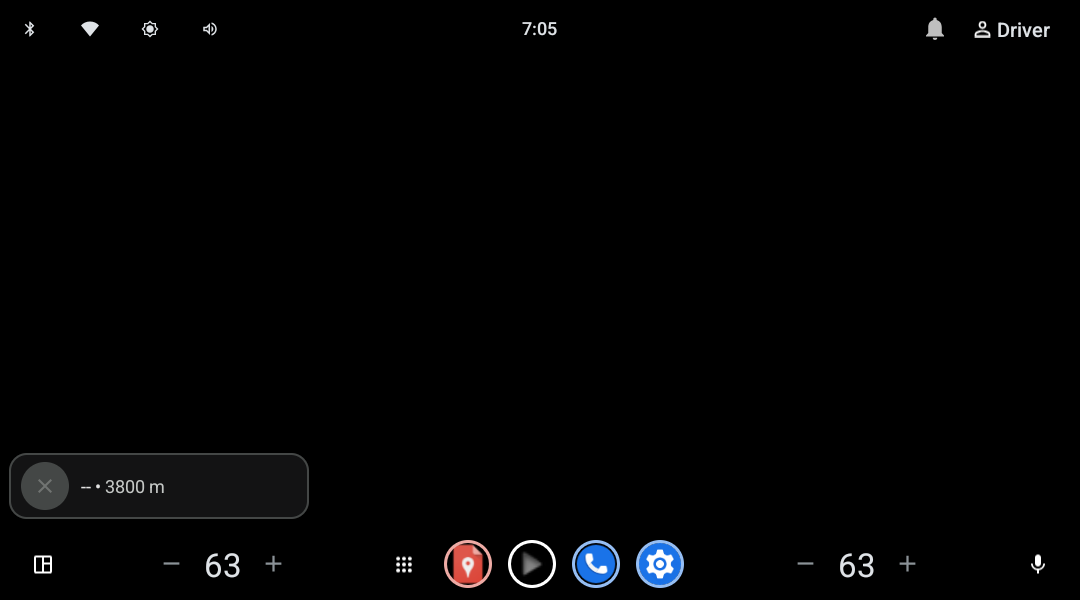
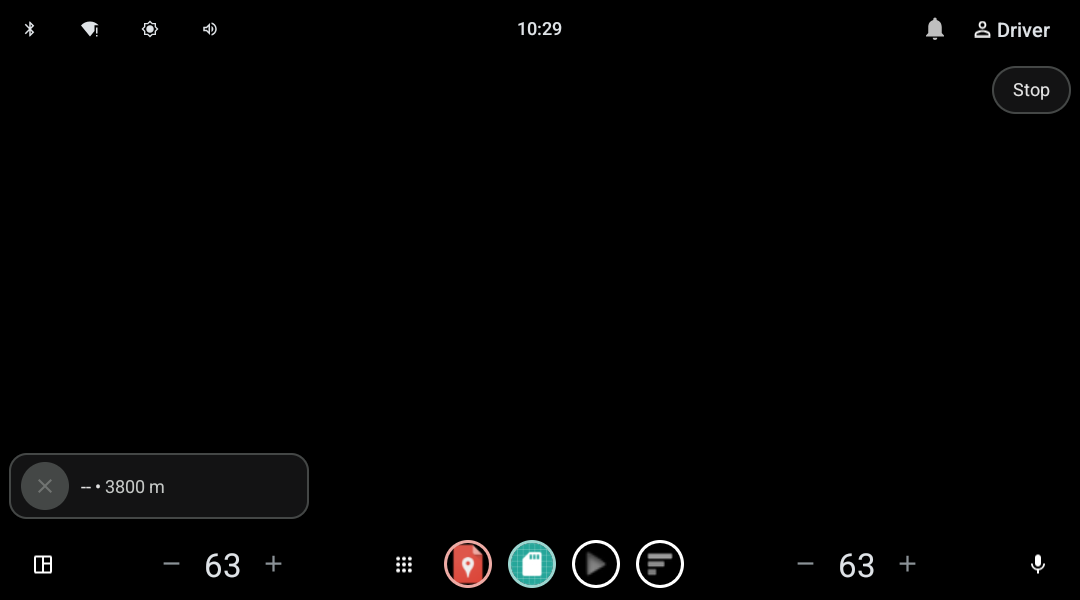
Sprint 2 C3/C4 emulator verification: report + evidence (#60) (#60)
IoT/weather/media walks with real taps on a fresh AAOS_35 boot; C2 re-walk
proves Go delivers (retires the blanket tap-death gap, narrows it to
guidance Stop); P5 lane error-path proof; 5 new captures, tap-driven
guidance replacement (22 total).

Changed region(s): [[0.4583, 0.9, 0.6417, 0.99], [0.9167, 0.09, 1.0, 0.21], [0.4583, 0.03, 0.5194, 0.06]]

diff --git a/scripts/check-screenshot-evidence.py b/scripts/check-screenshot-evidence.py
@@ -47,6 +47,11 @@ EXPECTED = {
     "host-b-poi-baseline.png",
     "host-a-nav-preview.png",
     "host-a-nav-guidance.png",
+    "host-a-iot-list.png",
+    "host-a-iot-toggled.png",
+    "host-a-weather-list.png",
+    "host-a-media-sources.png",
+    "host-a-media-browse.png",
 }
 REQUIRED_METADATA = {
     "commit", "host", "package", "display", "state", "command", "sha256", "captured_at"

diff --git a/docs/SPRINT-2-C3C4-VERIFICATION.md b/docs/SPRINT-2-C3C4-VERIFICATION.md
@@ -1,0 +1,97 @@
+# Sprint 2 C3/C4 emulator verification (2026-11-12)
+
+IoT + weather template walks and the media-controller walk on the local AAOS emulator,
+plus a C2 re-walk with real taps. Entry criteria: Host A installable with IoT/weather
+coverage (C3), and media passing a real controller (C4).
+
+## Environment
+
+| | |
+|---|---|
+| AVD | `AAOS_35` (`automotive_1080p_landscape`), wipe-data cold boot |
+| Image | `system-images;android-35-ext15;android-automotive;arm64-v8a` r4 (same as Sprint 1) |
+| Build | Debug at `3568df5` (main with #59); no temporary instrumentation this time |
+| Session tweaks | DisplayCompat interrupter disabled (`pm disable-user`), as in Sprint 1/C2 |
+
+Deviations from the earlier runs, stated plainly:
+
+- The `booted` snapshot would not load (`virtio-snd` state error) and a cold boot on
+  the stale userdata hung without guest writes, so the run used `-wipe-data -no-audio`
+  with `-no-snapshot-save`. No snapshots were written (disk was at 6–12 GiB free).
+- `-no-audio` means ExoPlayer cannot render audio: playback attempts end in
+  `PlaybackState ERROR (Bluetooth audio disconnected)`. Transport *routing* is proven;
+  audible playback is not.
+
+## Walks
+
+Each template root launches via its boolean extra on `CarAppActivity`, with
+`am force-stop` between launches (the single-task activity otherwise absorbs a new
+extra into the live session). All captures use `screencap -d 4619827259835644672`
+to a file, then pulled — no adb text pollution.
+
+### C3: IoT + weather
+
+- IoT root renders the device list (`SESSION_START {root=iot}`, `ListTemplate`):
+  living-room light, porch light, hall thermostat with state toggles.
+- **Two real taps flipped two toggles** (living-room On→Off, porch Off→On), each
+  re-rendering `ListTemplate`. Full interaction, not just pixels.
+- Weather root renders the Midtown forecast (`SESSION_START {root=weather}`,
+  `ListTemplate`): current + hourly + daily rows.
+
+### C4: media controller
+
+- The library session publishes as `a2ui-media` (`active=true`); media keys route
+  to the player (`NONE` → play attempt).
+- The car's source picker initially did **not** list us. Two manifest-level root
+  causes, both fixed in #59 and re-verified here:
+  1. The picker enumerates `android.media.browse.MediaBrowserService` services; we
+     declared only the media3 action.
+  2. `MediaSource.isMediaTemplate` skips browse services from car-app packages
+     without an opt-in (`Skipping MBS ... belonging to non media template app`);
+     the service's meta-data must contain `androidx.car.app.launchable=true`.
+     A car-app `MEDIA` category was tested and is *not* the criterion.
+- After the fix: the picker lists **A2UI Showcase**, selecting it browses our
+  **Anchored FM** catalog (Downtown Loop / Park Ave Shuffle / Carmine St Blues),
+  and tapping a track routes play to our ExoPlayer (errors only on the missing
+  audio output — the `-no-audio` artifact above).
+- Audit rules pin both manifest entries (`check-aaos-manifest.py`, 21→25 tests).
+
+### C2 re-walk (taps)
+
+- Nav preview renders one route row (Joe's Pizza, 3800 m · 13 min) with Go.
+- **A real Go tap transitioned preview → guidance** (`NavigationTemplate`, Stop +
+  estimate). The C2 report's "tap delivery is dead" gap was stale-snapshot state:
+  on this fresh boot, template-body taps (Go, IoT toggles) all deliver.
+- The guidance Stop action still does not fire (tap, long-press, host logs silent).
+  Guidance-Activity teardown stays JVM-covered only.
+
+### P5 lane (bonus, error path)
+
+With no vendor keys and no staging backend on the worker, only the failure path
+was exercisable: dev gateway (`serve.py --offline`) over `adb reverse`, Host B
+asked via the `AGENT` broadcast. The turn reached the gateway over TLS (logged
+`provider=claude ... status=503`) and the host logged
+`agent turn failed: HTTP; keeping the current surface` — the P5 code executes
+on-device and fails closed. A successful turn still needs staging or keys.
+
+## Evidence
+
+| Capture | Shows |
+|---|---|
+| `host-a-iot-list.png` | C3 device list with toggles |
+| `host-a-iot-toggled.png` | Same list after two real taps flipped two toggles |
+| `host-a-weather-list.png` | C3 Midtown forecast rows |
+| `host-a-media-sources.png` | C4 picker listing A2UI Showcase |
+| `host-a-media-browse.png` | C4 Anchored FM catalog in the car media center |
+| `host-a-nav-guidance.png` | Replaced: guidance after a real Go tap (was temp-direct build) |
+
+## Gaps
+
+- Guidance Stop taps do not reach the app (3 attempts, host silent). Body-action
+  taps work; this is specific to the guidance ActionStrip/header region.
+- Audible playback unverified (`-no-audio` boot). Needs a boot with audio.
+- No tile renderer yet (unchanged): the guidance map surface is owned, delivered,
+  and drawn black.
+- P5 success path needs staging or vendor keys; only the failure path ran here.
+- The `booted` snapshot is unloadable; the next run pays a cold boot again unless
+  somebody re-saves it with free disk.

diff --git a/docs/STATUS.md b/docs/STATUS.md
@@ -103,9 +103,12 @@ Open at HEAD, one line each. Investigations and evidence live in git history and
 - `record-demo.sh` infers "the screen changed" from file size when `ffmpeg` is absent.
 - Sprint 1's map pane has telemetry proof (`POI_STEP map`) but no committed capture; emulator
   captures must pass `screencap -d` with an explicit display id from now on.
-- Host tap delivery is dead on the headless emulator (C2: ~25 taps + DPAD, nothing delivered);
-  template actions (Go/Stop/advance) are JVM-covered only. Same gap class as Sprint 1's
-  MapWithContent host-input proof.
+- Guidance Stop taps do not reach the app on the emulator (C3/C4 re-walk: Go and IoT
+  toggles deliver on a fresh boot, so the old blanket tap-death line is retired);
+  guidance teardown stays JVM-covered only.
+- The `booted` AAOS snapshot is unloadable (virtio-snd state) and no replacement was
+  saved (disk); the next emulator run pays a cold boot. Audible playback is unverified
+  (last boot was `-no-audio`).
 - No mutation coverage for `oem-apis`, `car-rotary-lib`, `car-assist-lib`, `car-telephony-common`
   (reasons and removal conditions in `docs/mutation-exemptions.tsv`).
 

diff --git a/docs/SPRINT-2-C2-VERIFICATION.md b/docs/SPRINT-2-C2-VERIFICATION.md
@@ -42,8 +42,8 @@ temporary direct-launch extra; the rendered template path is identical.
 
 ## Gaps
 
-- Host tap delivery does not work headless here: ~25 taps across the preview (both default and
-  explicit `-d 0` targets), DPAD/rotary keys, and system-bar probes produced no app-visible
-  effect, and the templates host logs nothing on taps. Go/Stop/advance stay JVM-covered only —
-  the same known host-input gap Sprint 1 recorded for MapWithContent.
+- Update (2026-11-12 re-walk, see [SPRINT-2-C3C4-VERIFICATION](SPRINT-2-C3C4-VERIFICATION.md)):
+  the tap death was stale-snapshot state. On a fresh boot a real Go tap transitioned
+  preview → guidance, and IoT toggles flip. What stays dead is the guidance Stop action
+  specifically (tap + long-press + host silence) — guidance teardown is JVM-covered only.
 - No tile renderer yet: the map surface is owned and delivered, but undrawn.
